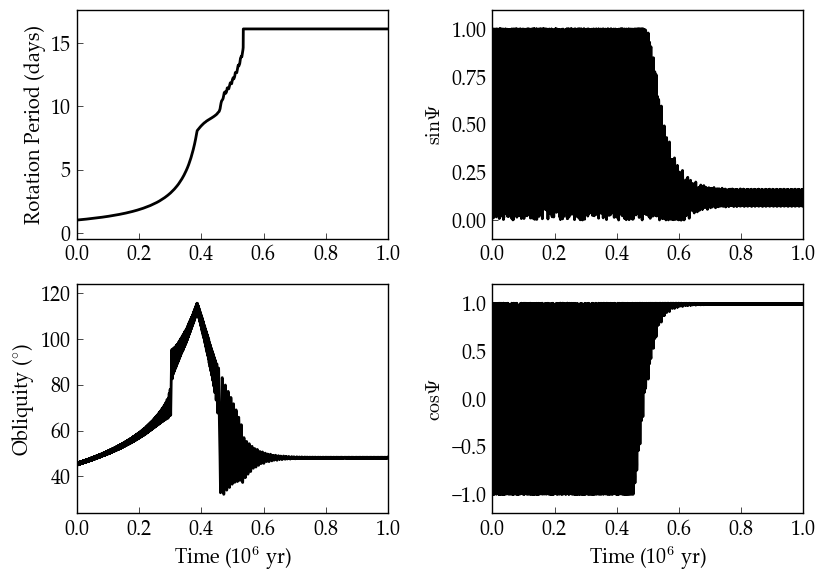
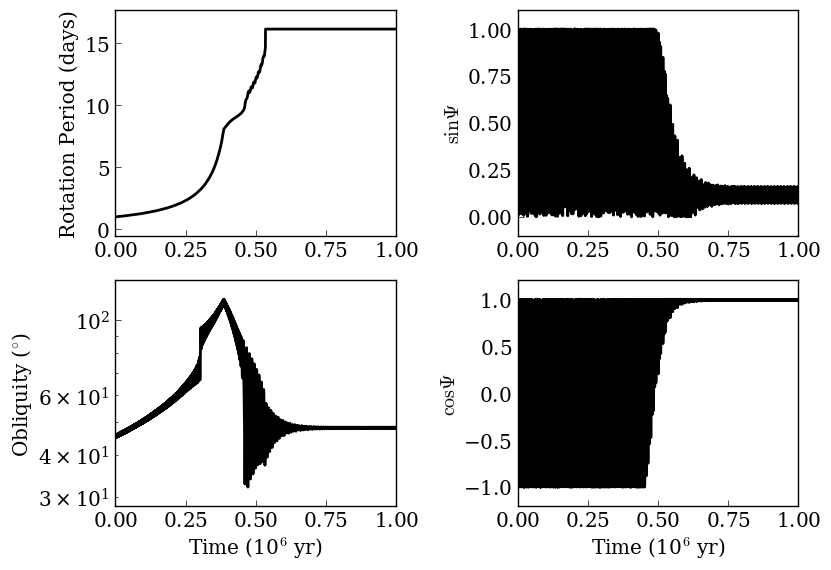
fixed calc of cassini state obliquity in example CassiniStates

diff --git a/examples/CassiniStates/makeplot.py b/examples/CassiniStates/makeplot.py
@@ -33,7 +33,7 @@ plt.subplot(2,2,3)
 plt.plot(out.b.Time/1e6,out.b.Obliquity,'k-')
 plt.xlabel('Time (10$^6$ yr)')
 plt.ylabel('Obliquity ($^{\circ}$)')
-#plt.yscale('log')
+plt.yscale('log')
 # plt.xlim(0,5)
 
 plt.subplot(2,2,4)
@@ -59,6 +59,7 @@ plt.close()
 alpha = np.mean(out.b.PrecFNat[out.b.Time>500e3]/np.cos(out.b.Obliquity[out.b.Time>500e3]*np.pi/180))
 
 inc = np.mean(out.b.Inc)*np.pi/180
+# inc = 0.1
 H0 = 0
 # eps = 0.6
 # alpha = 1e-5
@@ -69,6 +70,8 @@ pq = q + 1j*p
 f, pow = sig.periodogram(pq,fs = 1/out.b.Time[1])
 g = f[np.where(np.abs(pow)==np.max(np.abs(pow)))[0]]*360
 eps = -g/alpha
+# eps = 0.6
+# g = -eps*alpha
 
 X = np.linspace(-0.99,0.99,250)
 Y = np.linspace(-0.99,0.99,250)
@@ -88,30 +91,62 @@ H[np.where(sxy>1)] = np.nan
 xc = np.cos(np.linspace(0,360,1000)*np.pi/180)
 yc = np.sin(np.linspace(0,360,1000)*np.pi/180)
 
-obl4 = np.arccos(-g*np.cos(inc)/alpha)
-y4 = -np.sin(obl4)
-z4 = np.cos(obl4)
-
-H4 = H0 - 0.5*alpha*z4**2 - g*(y4*np.sin(inc)+z4*np.cos(inc))
 
 xobl = np.sin(out.b.Obliquity*np.pi/180)*np.cos((out.b.PrecA+out.b.LongA)*np.pi/180)
 yobl = np.sin(out.b.Obliquity*np.pi/180)*np.sin((out.b.PrecA+out.b.LongA)*np.pi/180)
 
-obl2 = -np.arccos(-g*np.cos(inc)/alpha)
-y2 = -np.sin(obl2)
+#solve quartic equation for roots (state obliquities)
 
-obl1 = np.arctan2(np.sin(inc),1-alpha/g)
-y1 = -np.sin(obl1)
+a = alpha/(4*g*1j)
+b = np.cos(inc)/(2j)-np.sin(inc)/2
+c = 0
+d = -np.cos(inc)/(2j)-np.sin(inc)/2
+e = -a
 
-fig=plt.figure(figsize=(8,8))
+p = (8*a*c-3*b**2)/(8*a**2)
+q = (b**3-4*a*b*c+8*a**2*d)/(8*a**3)
+del0 = c**2 - 3*b*d+12*a*e
+del1 = 2*c**3-9*b*c*d + 27*b**2*e + 27*a*d**2 - 72*a*c*e
+Q = ((del1+np.sqrt(del1**2-4*del0**3))/2)**(1./3)
+S = 0.5*np.sqrt(-2/3*p+1/(3*a)*(Q+del0/Q))
+
+x1 = -b/(4*a)-S+0.5*np.sqrt(-4*S**2-2*p+q/S)
+x2 = -b/(4*a)-S-0.5*np.sqrt(-4*S**2-2*p+q/S)
+x3 = -b/(4*a)+S+0.5*np.sqrt(-4*S**2-2*p-q/S)
+x4 = -b/(4*a)+S-0.5*np.sqrt(-4*S**2-2*p-q/S)
+
+theta1 = np.arctan2(np.imag(x1),np.real(x1))
+theta2 = np.arctan2(np.imag(x2),np.real(x2))
+theta3 = np.arctan2(np.imag(x3),np.real(x3))
+theta4 = np.arctan2(np.imag(x4),np.real(x4))
+
+#roots get mixed up in quartic solution so need to assign them manually
+
+# obl4 = np.arccos(-g*np.cos(inc)/alpha)
+obl4 = theta4
+y4 = np.sin(obl4)
+z4 = np.cos(obl4)
+
+# obl2 = -np.arccos(-g*np.cos(inc)/alpha)
+obl2 = theta1
+y2 = np.sin(obl2)
+
+# obl1 = np.arctan2(np.sin(inc),1-alpha/g)
+obl1 = theta3
+y1 = np.sin(obl1)
+
+H4 = H0 - 0.5*alpha*z4**2 - g*(y4*np.sin(inc)+z4*np.cos(inc))
+
+
+fig = plt.figure(figsize=(8,8))
 plt.contour(Y,X,H.T,50,colors='0.5')
 plt.contour(Y,X,H.T,levels=[1.00005*H4],colors='k')
 plt.plot(xc,yc,'-',color='0.5')
 plt.plot(xobl[out.b.Time>500e3],yobl[out.b.Time>500e3],'k.')
-plt.plot([y2+0.01,y4+0.01,y1-0.025],[0,0,0],'.',ms=15,color='0.5')
-plt.text(y2+0.03,0.01,r'2',color='0.5',fontweight='bold',fontsize=20)
-plt.text(y4+0.01,0.02,r'4',color='0.5',fontweight='bold',fontsize=20)
-plt.text(y1-0.05,0.03,r'1',color='0.5',fontweight='bold',fontsize=20)
+plt.plot([y2,y4,y1],[0,0,0],'.',ms=15,color='0.5')
+plt.text(y2+0.05,0.0,r'2',color='0.5',fontweight='bold')
+plt.text(y4-0.05,0.0,r'4',color='0.5',fontweight='bold')
+plt.text(y1,0.0,r'1',color='0.5',fontweight='bold')
 plt.xlabel(r'$\sin{\epsilon}$ $\cos{(\psi+\Omega)}$')
 plt.ylabel(r'$\sin{\epsilon}$ $\sin{(\psi+\Omega)}$')
 plt.xlim(-1.1,1.1)
